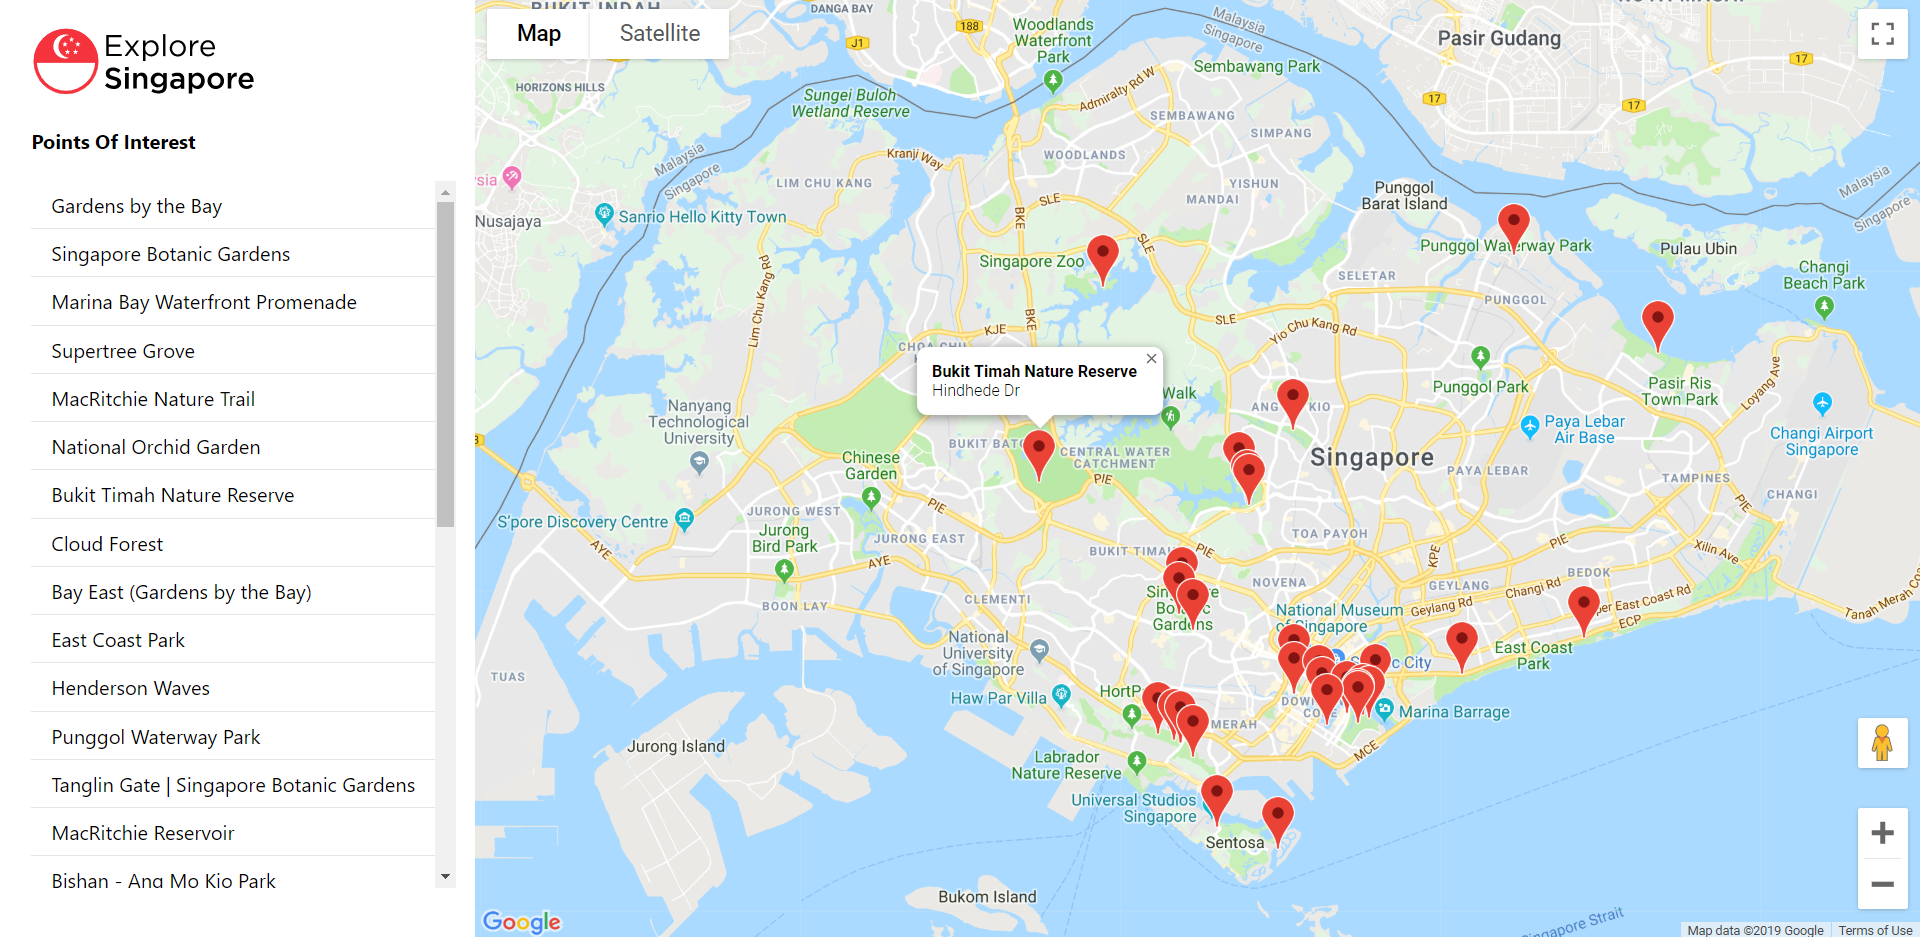
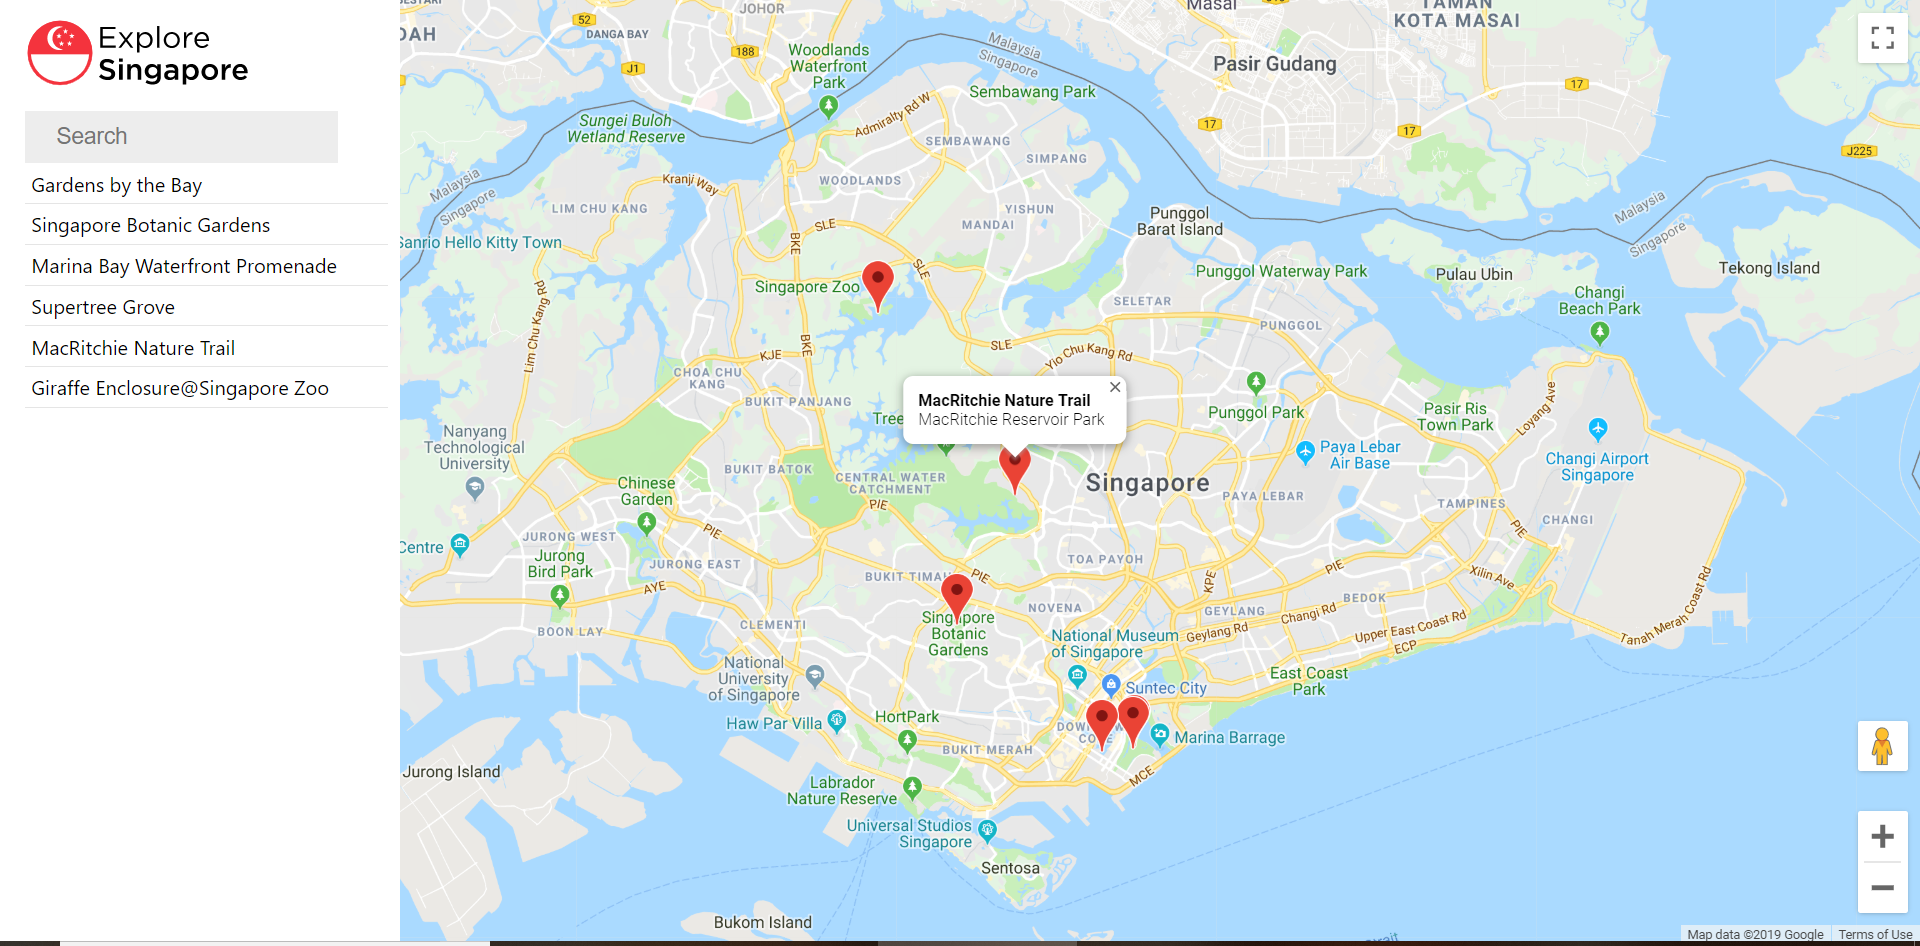
Screenshot updated
scroll list removed
6 locations

diff --git a/src/components/App.js b/src/components/App.js
@@ -1,5 +1,7 @@
 import React, {Component} from 'react';
 import SideList from './SideList';
+import '../index.css';
+import '../App.css';
 
 
 class App extends Component {
@@ -161,7 +163,7 @@ class App extends Component {
                         var location_data = data.response.venues[0];
                         var name = location_data.name;
                         var address = location_data.location.address;
-                        self.state.infowindow.setContent(name + '<br>' + address);
+                        self.state.infowindow.setContent('<b>' + name + '</b>' + '<br>' + address);
                     });
                 }
             )

diff --git a/src/App.css b/src/App.css
@@ -42,22 +42,11 @@ margin-bottom: 30px;
 font-size: 12px;
 }
 input[type="text"]:focus{
-outline: none;
-box-shadow: 0px 0px 5px #313e41;
-border:1px solid #c59466;
-border-radius: 5px;
-}
-
-input[type="text"]:hover{
-border: 1px solid #666;
-border-radius: 5px;
+outline: grey;
 }
 input[type="text"]:focus:hover{
-outline: none;
-box-shadow: 0px 0px 5px #c59466;
-border:1px solid #313e41;
+border:1px solid #bebebe;
 border-radius:5px;
-
 }   
 .main{
 height: 100%;

diff --git a/README.md b/README.md
@@ -27,9 +27,6 @@ To run app:
 
 1. [Google Maps API](https://maps.google.com)
 2. [Foursquare](https://https://foursquare.com)
-3. [React flexbox grid](https://github.com/roylee0704/react-flexbox-grid)
-4. [React Docs](https://reactjs.org/docs/getting-started.html)
-5. [React Search Input](https://www.npmjs.com/package/react-search-input)
 
 ## Resources
 
